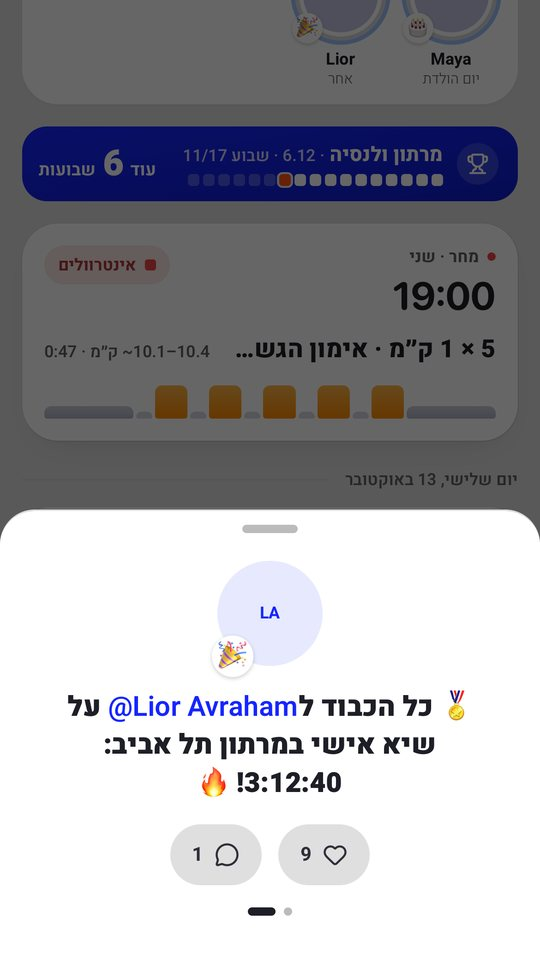
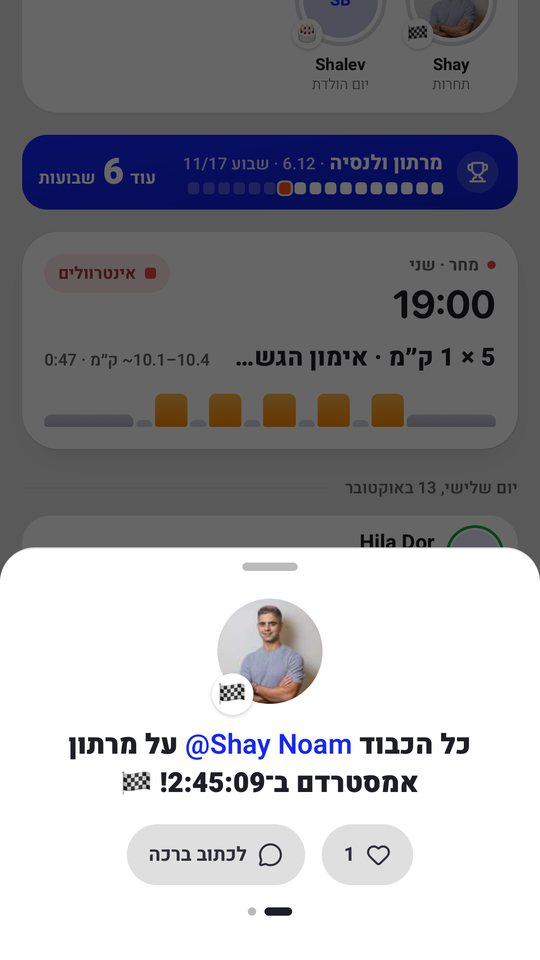
fix(celebrations): 2.41.226 — a tap on the second circle opens its own slide (the scroll ran before the sheet had laid out); What's New celebration frames from today's real ones

diff --git a/src/components/feed/CelebrationStories.tsx b/src/components/feed/CelebrationStories.tsx
@@ -176,13 +176,24 @@ export function CelebrationStories({ onComment }: { onComment: (item: FeedItem) 
     if (open == null) return;
     setAt(open);
     markSeen(entries[open].item.id);
-    requestAnimationFrame(() => {
+    // The sheet mounts and lays out over a few frames, so one frame after `open` the
+    // row may not exist or have no width yet, and the scroll did nothing: a tap on
+    // the second circle opened the first (lab, 10-18). Try each frame until it lands.
+    let frames = 0;
+    let raf = 0;
+    const land = () => {
       const el = slidesRef.current;
-      if (!el) return;
-      // In a right-to-left row scrollLeft runs from 0 towards negative numbers.
-      const sign = getComputedStyle(el).direction === 'rtl' ? -1 : 1;
-      el.scrollTo({ left: sign * open * el.clientWidth, behavior: 'instant' as ScrollBehavior });
-    });
+      if (el && el.clientWidth > 0) {
+        // In a right-to-left row scrollLeft runs from 0 towards negative numbers.
+        const sign = getComputedStyle(el).direction === 'rtl' ? -1 : 1;
+        const left = sign * open * el.clientWidth;
+        el.scrollTo({ left, behavior: 'instant' as ScrollBehavior });
+        if (Math.abs(el.scrollLeft - left) < 2 || open === 0) return;
+      }
+      if (++frames < 30) raf = requestAnimationFrame(land);
+    };
+    raf = requestAnimationFrame(land);
+    return () => cancelAnimationFrame(raf);
   }, [open]); // eslint-disable-line react-hooks/exhaustive-deps
 
   const onScroll = () => {

diff --git a/src/lib/whats-new/evening.ts b/src/lib/whats-new/evening.ts
@@ -129,7 +129,7 @@ export const EVENING_ENTRIES: WhatsNewEntry[] = [
     href: '/feed',
     cards: [
       { key: 'b18-celebrations', he: 'יום הולדת', en: 'A birthday' },
-      { key: 'b18-celebrations-cheer', he: 'שיא אישי', en: 'A personal best' },
+      { key: 'b18-celebrations-cheer', he: 'מרתון', en: 'A marathon' },
     ],
     he: { title: 'ימי הולדת וחגיגות, בפיד', body: '"חוגגים היום" בראש הפיד: יום הולדת עולה לבד, ושיא אישי או מרתון מהיר מקבלים ברכה מהמאמנים. נגיעה בעיגול פותחת את החגיגה, עם לייק ותגובה.', cta: 'לפיד', kicker: 'חדש · חגיגות', where: 'בפיד' },
     en: { title: 'Birthdays and celebrations, on the feed', body: '"Celebrating today" at the top of the feed: birthdays go up by themselves, and a personal best or a fast marathon gets a cheer from the coaches. Tap a circle to open it, like and comment.', cta: 'To the feed', kicker: 'New · Celebrations', where: 'On the feed' },

diff --git a/src/app/(app)/dashboard/release-rehearsal/page.tsx b/src/app/(app)/dashboard/release-rehearsal/page.tsx
@@ -38,7 +38,7 @@ type Step = (typeof STEPS)[number];
 const ONLY_IF_OPEN: Step[] = ['sheet', 'updating', 'toast'];
 const SPLASH_KEY = 'app_splash_shown';
 /** The release this rehearsal is for (lib/whats-new/evening.ts EVENING_ENTRIES). */
-const REHEARSED_VERSION = '2.41.225';
+const REHEARSED_VERSION = '2.41.226';
 
 /** The version the evening would announce: one patch above what runs now. */
 function nextVersion(v: string): string {

diff --git a/src/lib/version.ts b/src/lib/version.ts
@@ -7,4 +7,4 @@
 // Profile screen — the only version an athlete or a coach can actually see —
 // answered "did the fix ship?" with a stale yes. versionSync.test.ts now fails
 // the build on any drift, because a version you can't trust is worse than none.
-export const APP_VERSION = '2.41.225';
+export const APP_VERSION = '2.41.226';
